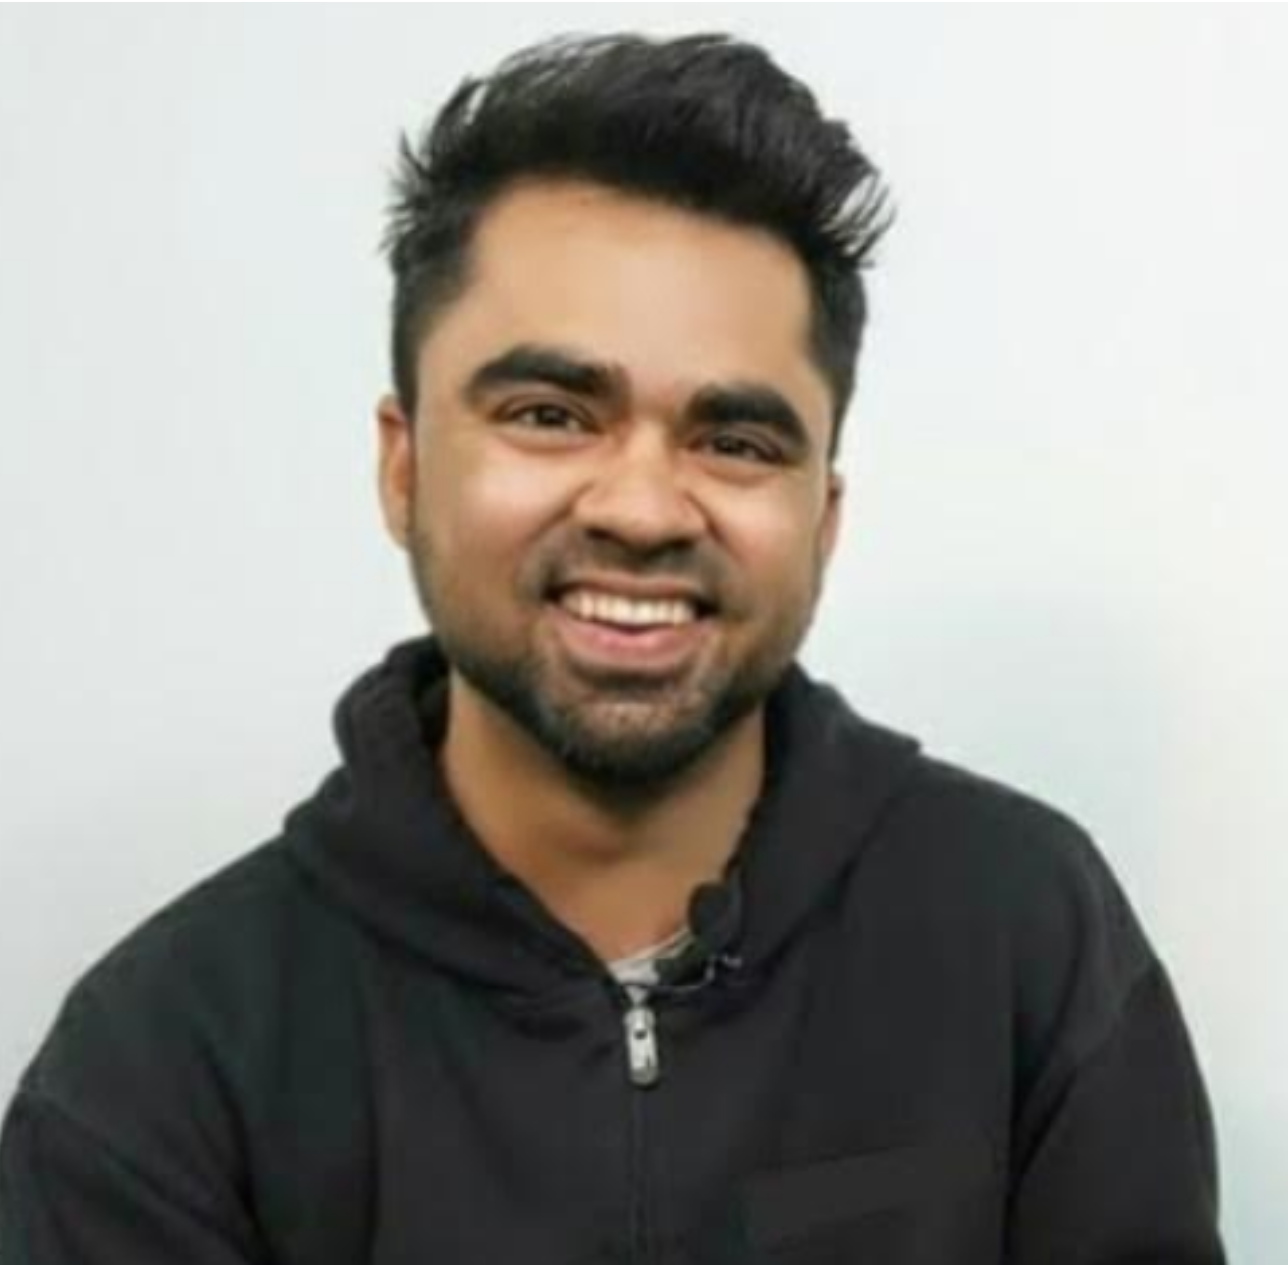
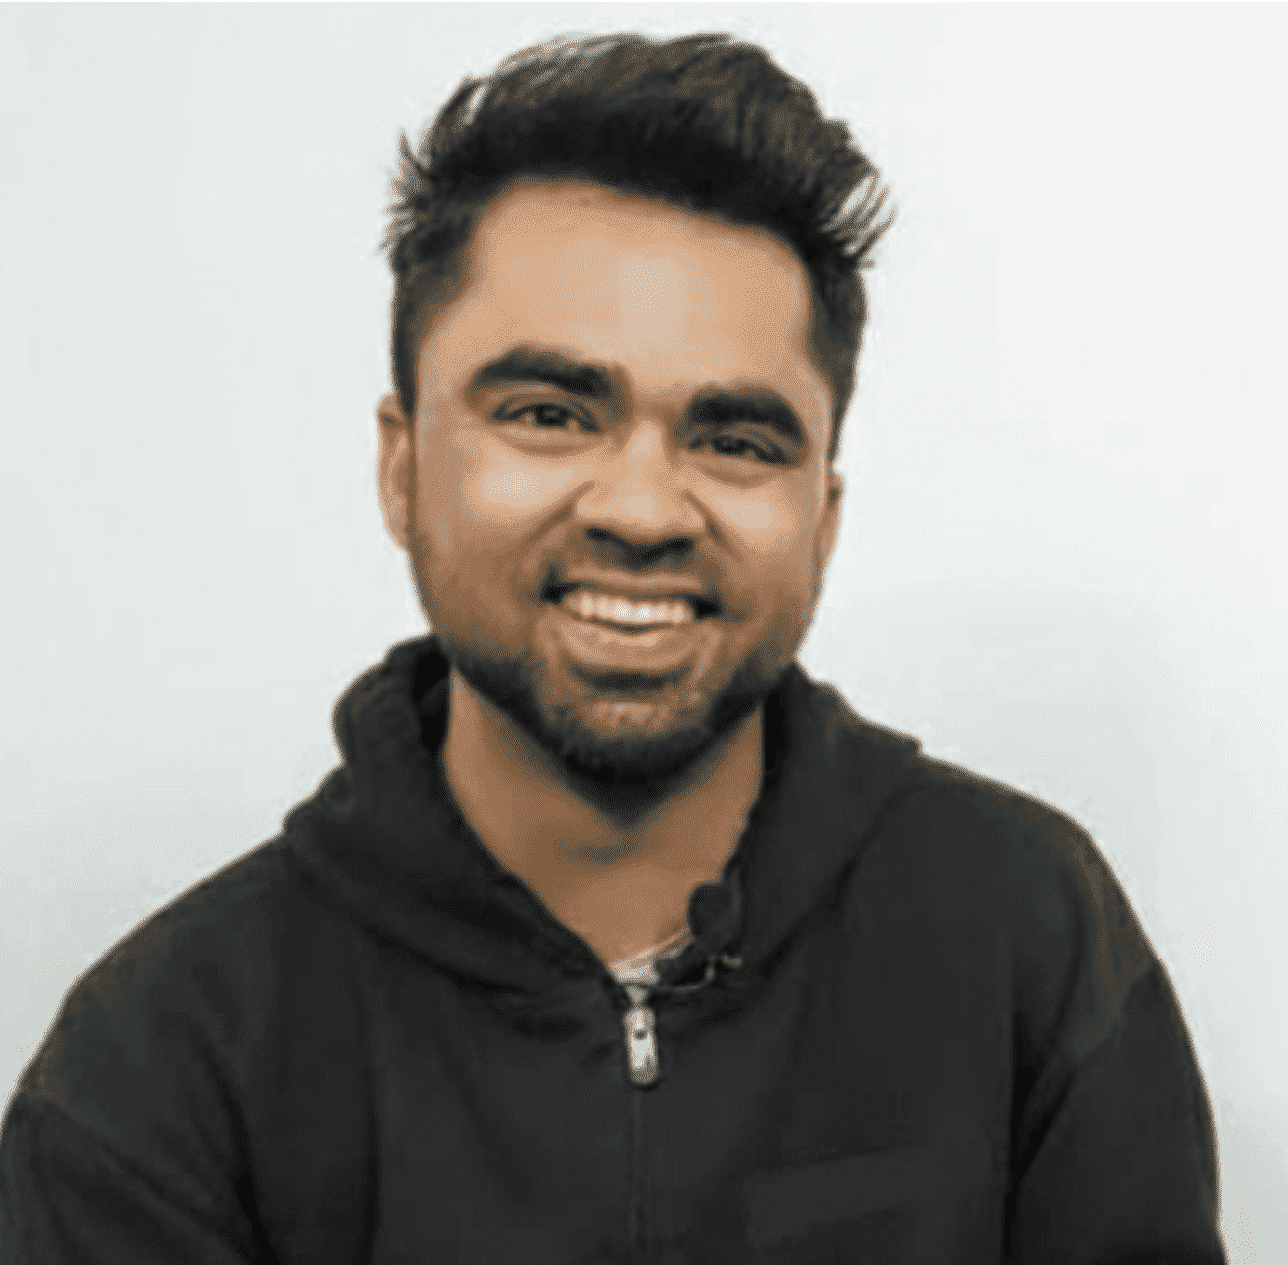
mentors images

diff --git a/index.html b/index.html
@@ -557,7 +557,7 @@
                 <!-- <div class="card-deck"> -->
                 <div class="col-lg-4 col-md-6">
                     <div class="our-judges mt-5">
-                        <img src="img/mentors/Abir Pal.jpg" alt="">
+                        <img src="img/mentors/Abir Pal.png" alt="">
                         <ul class="social_judges">
 
                             <li><a href="https://www.linkedin.com/in/imabp" class="fa fa-linkedin"></a></li>
@@ -611,7 +611,7 @@
                 </div>
                 <div class="col-lg-4 col-md-6">
                     <div class="our-judges mt-5">
-                        <img src="img/mentors/Nandita Gaur.jpg"">
+                        <img src="img/mentors/Nandita Gaur.png"">
                         <ul class=" social_judges">
 
                         <li><a href="https://www.linkedin.com/in/nanditagaur" class="fa fa-linkedin"></a></li>
